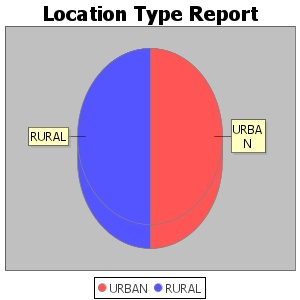
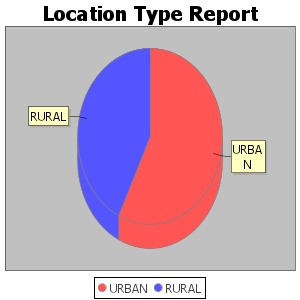
Rest Controller added additionaly

Changed region(s): [[0.39, 0.45, 0.51, 0.84], [0.72, 0.39, 0.9, 0.6], [0.09, 0.33, 0.27, 0.51]]

diff --git a/LocationWeb/src/main/java/com/sarath/location/controller/LocationRESTController.java b/LocationWeb/src/main/java/com/sarath/location/controller/LocationRESTController.java
@@ -1,0 +1,54 @@
+package com.sarath.location.controller;
+
+import java.util.List;
+
+import org.springframework.beans.factory.annotation.Autowired;
+import org.springframework.web.bind.annotation.DeleteMapping;
+import org.springframework.web.bind.annotation.GetMapping;
+import org.springframework.web.bind.annotation.PathVariable;
+import org.springframework.web.bind.annotation.PostMapping;
+import org.springframework.web.bind.annotation.PutMapping;
+import org.springframework.web.bind.annotation.RequestBody;
+import org.springframework.web.bind.annotation.RequestMapping;
+import org.springframework.web.bind.annotation.RestController;
+
+import com.sarath.location.entities.Location;
+import com.sarath.location.repository.LocationRepo;
+
+@RestController
+@RequestMapping("/restLocations")
+public class LocationRESTController 
+{
+	@Autowired
+	LocationRepo locationRepo;
+	
+	@GetMapping
+	public List<Location> getLocations()
+	{
+		return locationRepo.findAll();
+	}
+	
+	@PostMapping
+	public Location createLocation(@RequestBody Location location) //@RequestBody will deserialize the values  and set in location
+	{
+		return locationRepo.save(location);
+	}
+	
+	@PutMapping
+	public Location updateLocation(@RequestBody Location location)
+	{
+		return locationRepo.save(location);
+	}
+	
+	@DeleteMapping("/{id}")
+	public void deleteLocation(@PathVariable("id") int id)
+	{
+		locationRepo.deleteById(id);
+	}
+	
+	@GetMapping("/{id}")
+	public Location getLocation(@PathVariable("id") int id)
+	{
+		return locationRepo.findById(id).orElse(null);
+	}
+}

diff --git a/LocationWeb/src/main/java/com/sarath/location/controller/LocationController.java b/LocationWeb/src/main/java/com/sarath/location/controller/LocationController.java
@@ -16,8 +16,12 @@ import java.util.List;
 
 //	https://reflectoring.io/spring-cors/ CrossOrigin 
 //@CrossOrigin(maxAge = 3600)
+
+
 @Controller // -> This returns the CreateLocation.jsp page in return
 //@RestController -> This returns only the name CreateLocation in return
+
+
 @RequestMapping("LocCon")
 public class LocationController
 {
@@ -56,6 +60,7 @@ public class LocationController
     public String displayLocations(ModelMap resModMap)
     {
     	List<Location> listLocation = locationService.getAllLocation();
+    	generateReport();
         resModMap.addAttribute("listLocation", listLocation);
     	return "displayAllLocations";
     }
@@ -68,6 +73,7 @@ public class LocationController
         location.setId(id);
         locationService.deleteLocation(location);
         List<Location> allLocations = locationService.getAllLocation();
+        generateReport();
         resModMap.addAttribute("allLocations", allLocations);
         return "displayAllLocations";
     }
@@ -95,6 +101,7 @@ public class LocationController
 	public String updateLocationValues(@ModelAttribute("location") Location location, ModelMap resModMap) {
         locationService.updateLocation(location);
         List<Location> allLocations = locationService.getAllLocation();
+        generateReport();
         resModMap.addAttribute("allLocations", allLocations);
         return "displayAllLocations";
     }
